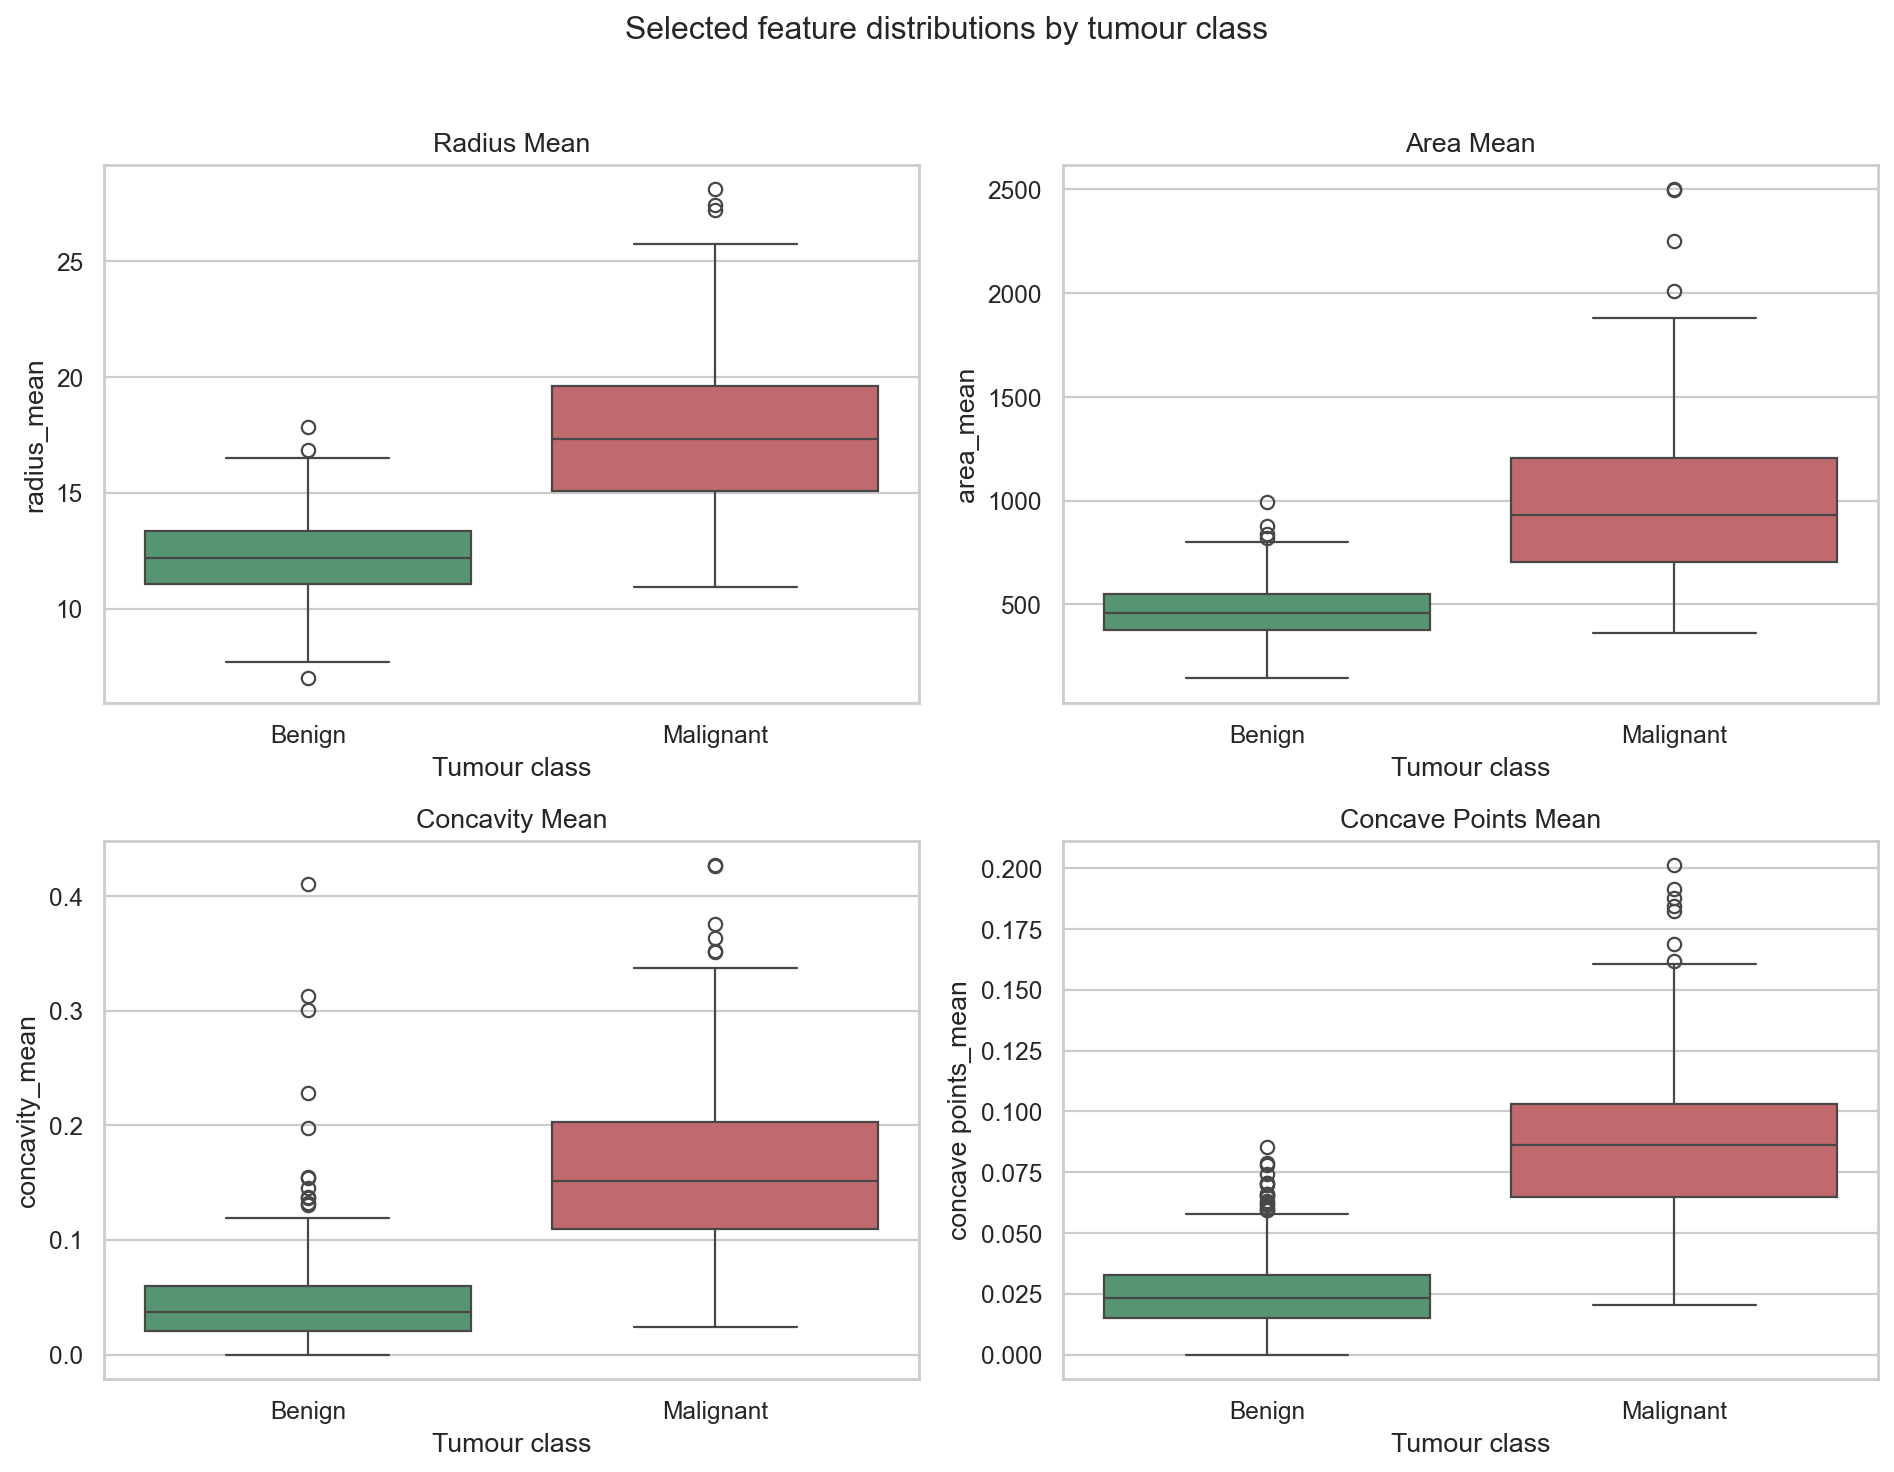
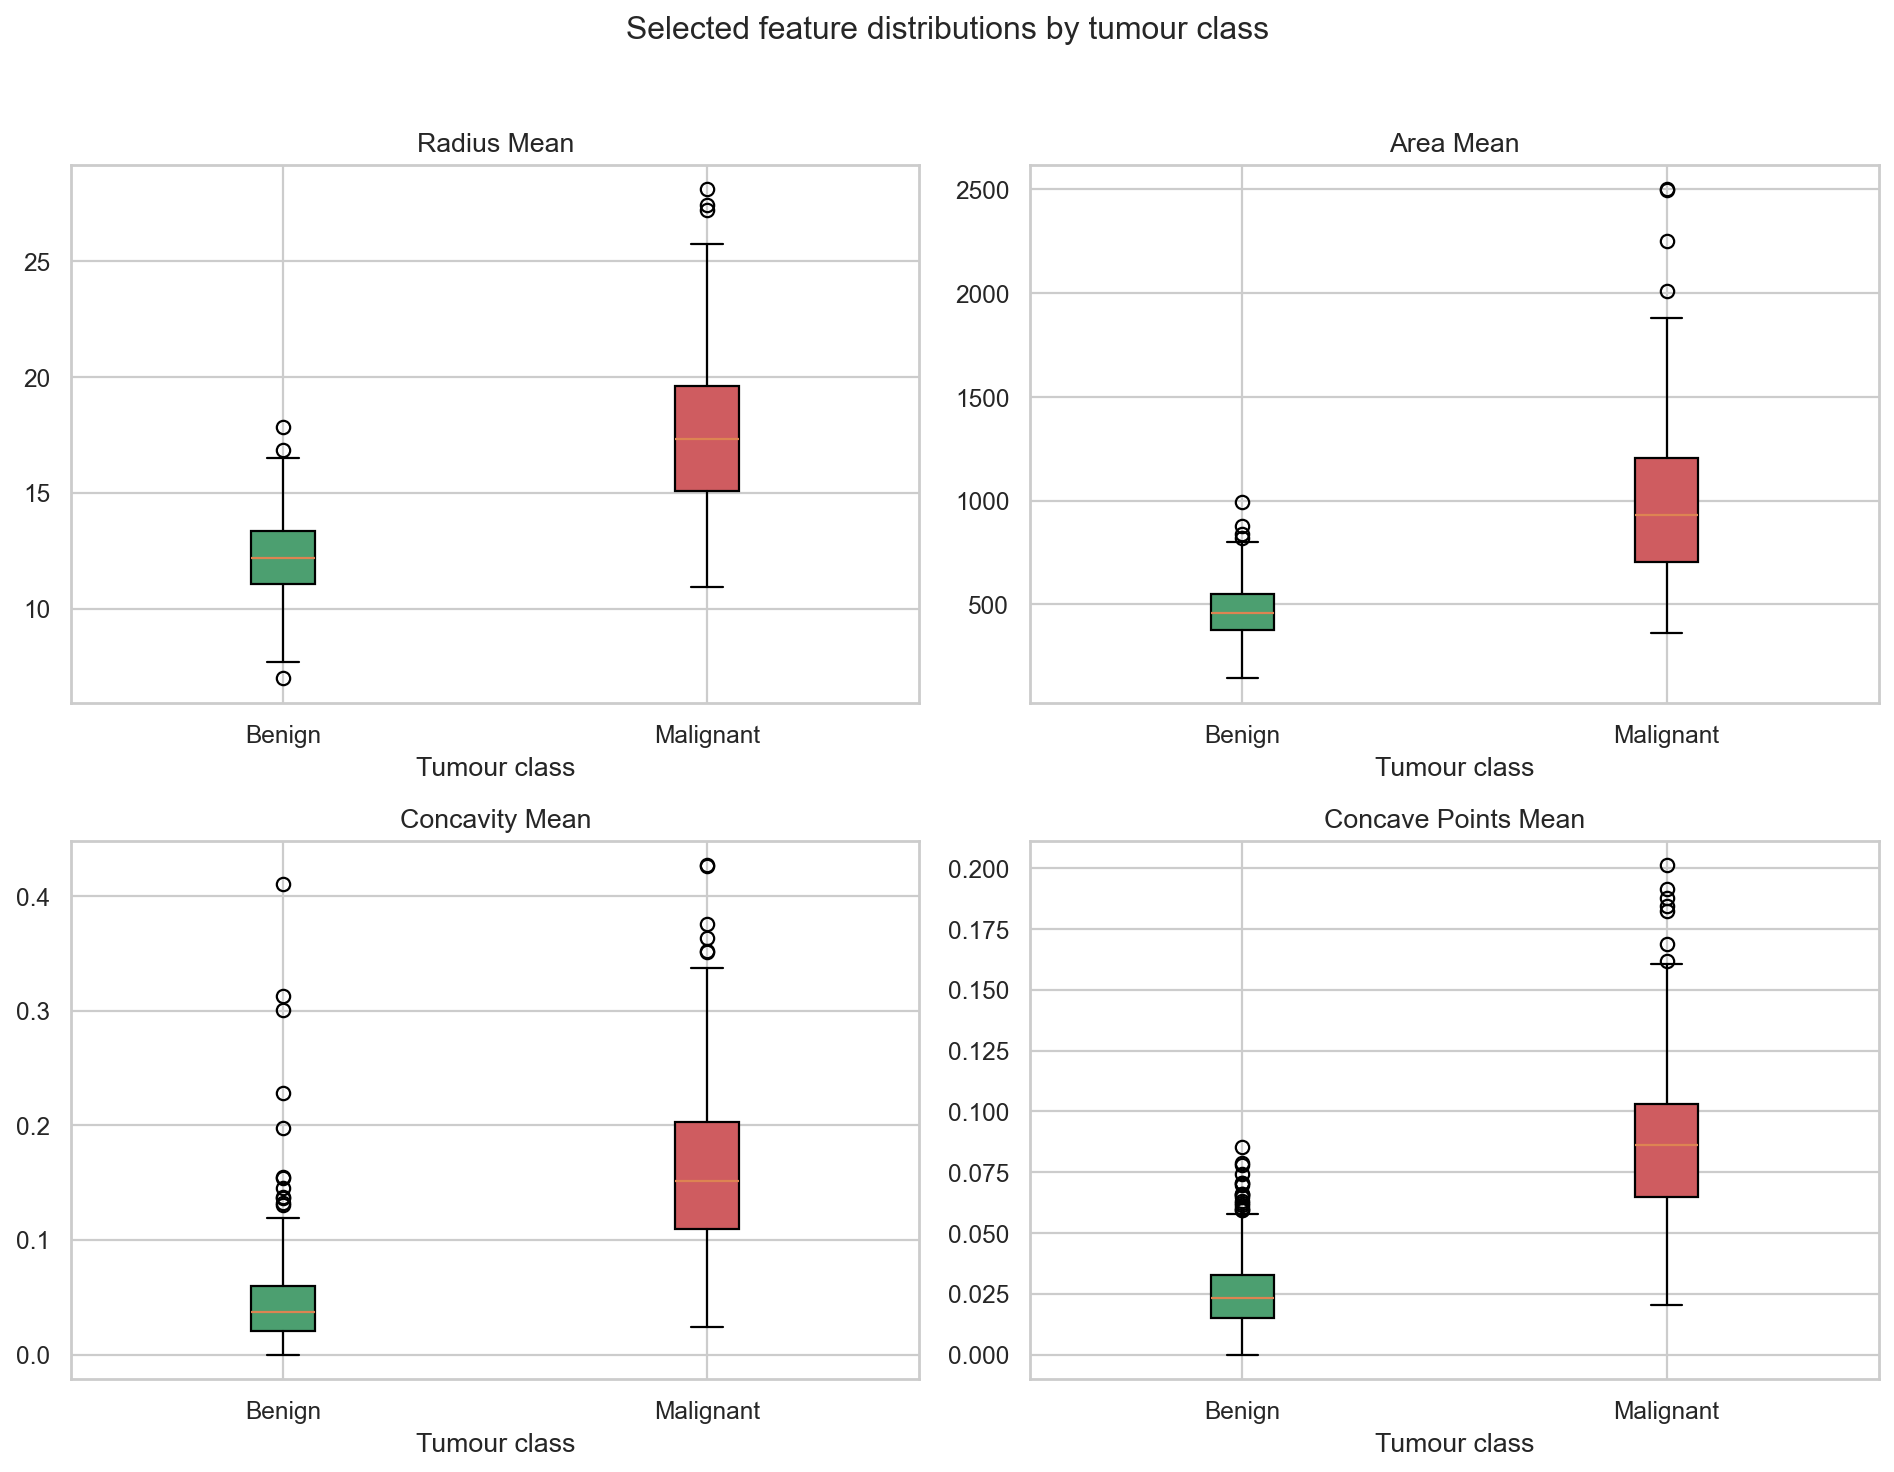
Update README with final model accuracy results and training times; refine metrics in JSON and report files; adjust evaluation function to return probabilities.

diff --git a/src/train.py b/src/train.py
@@ -72,7 +72,7 @@ def evaluate(estimator, X_test, y_test):
     predicted = estimator.predict(X_test)
     probabilities = estimator.predict_proba(X_test)[:, 1]
     tn, fp, fn, tp = confusion_matrix(y_test, predicted, labels=[0, 1]).ravel()
-    return {
+    metrics = {
         "accuracy": float(accuracy_score(y_test, predicted)),
         "precision": float(precision_score(y_test, predicted, zero_division=0)),
         "recall": float(recall_score(y_test, predicted, zero_division=0)),
@@ -80,6 +80,7 @@ def evaluate(estimator, X_test, y_test):
         "roc_auc": float(roc_auc_score(y_test, probabilities)),
         "confusion_matrix": {"tn": int(tn), "fp": int(fp), "fn": int(fn), "tp": int(tp)},
     }
+    return metrics, probabilities
 
 
 def save_eda_figures(X, y):
@@ -151,9 +152,8 @@ def save_eda_figures(X, y):
     return {"pc1_explained_variance": float(pca.explained_variance_ratio_[0]), "pc2_explained_variance": float(pca.explained_variance_ratio_[1]), "components_for_95_percent": components_95}
 
 
-def save_model_figures(experiments, best, X_train, y_train, X_test, y_test):
+def save_model_figures(experiments, best, y_test):
     """Create the four model evaluation figures."""
-    best_estimator = best["estimator"]
     best_metrics = best["metrics"]
 
     fig, ax = plt.subplots(figsize=(6, 5))
@@ -169,9 +169,9 @@ def save_model_figures(experiments, best, X_train, y_train, X_test, y_test):
     for name in [spec[0] for spec in MODEL_SPECS]:
         choices = [item for item in experiments if item["model"] == name]
         chosen = max(choices, key=lambda item: item["cv_f1"])
-        probs = chosen["estimator"].predict_proba(X_test)[:, 1]
+        probs = chosen["test_probabilities"]
         fpr, tpr, _ = roc_curve(y_test, probs)
-        auc = roc_auc_score(y_test, probs)
+        auc = chosen["metrics"]["roc_auc"]
         ax.plot(fpr, tpr, label=f"{name} (K={chosen['k']}, AUC={auc:.3f})")
     ax.plot([0, 1], [0, 1], "k--", linewidth=1, label="Chance")
     ax.set(title="ROC curves for the CV-best configuration of each model", xlabel="False positive rate", ylabel="True positive rate", xlim=(0, 1), ylim=(0, 1.02))
@@ -288,7 +288,7 @@ def main():
             search.fit(X_train, y_train)
             training_time = time.perf_counter() - started
             # This is the only held-out test evaluation for this tuned run.
-            heldout = evaluate(search.best_estimator_, X_test, y_test)
+            heldout, test_probabilities = evaluate(search.best_estimator_, X_test, y_test)
             experiments.append(
                 {
                     "model": model_name,
@@ -297,6 +297,7 @@ def main():
                     "cv_f1": float(search.best_score_),
                     "training_time_seconds": float(training_time),
                     "metrics": heldout,
+                    "test_probabilities": test_probabilities.tolist(),
                     "estimator": search.best_estimator_,
                 }
             )
@@ -308,9 +309,12 @@ def main():
     dump(best["estimator"], MODELS_DIR / "best_model.joblib")
     (MODELS_DIR / "feature_names.json").write_text(json.dumps(feature_names, indent=2), encoding="utf-8")
 
-    save_model_figures(experiments, best, X_train, y_train, X_test, y_test)
+    save_model_figures(experiments, best, y_test)
 
-    json_experiments = [{key: value for key, value in item.items() if key != "estimator"} for item in experiments]
+    json_experiments = [
+        {key: value for key, value in item.items() if key not in {"estimator", "test_probabilities"}}
+        for item in experiments
+    ]
     metrics = {
         "dataset": "Wisconsin Diagnostic Breast Cancer (scikit-learn)",
         "random_state": RANDOM_STATE,
@@ -320,7 +324,9 @@ def main():
         "pca": pca_summary,
         "selection_rule": "Highest held-out test recall, then highest held-out test F1.",
         "experiments": json_experiments,
-        "best_model": {key: value for key, value in best.items() if key != "estimator"},
+        "best_model": {
+            key: value for key, value in best.items() if key not in {"estimator", "test_probabilities"}
+        },
     }
     (RESULTS_DIR / "metrics.json").write_text(json.dumps(metrics, indent=2), encoding="utf-8")
     write_report(metrics, pca_summary, feature_names)

diff --git a/results/report_numbers.md b/results/report_numbers.md
@@ -23,29 +23,29 @@ All test metrics below are measured on the same stratified 20% holdout. Malignan
 
 | Model | Accuracy | Precision | Recall | F1 | ROC-AUC | Training time (s) |
 |---|---:|---:|---:|---:|---:|---:|
-| Logistic Regression | 0.9649 | 0.9750 | 0.9286 | 0.9512 | 0.9960 | 0.235 |
-| K-Nearest Neighbors | 0.9386 | 0.9730 | 0.8571 | 0.9114 | 0.9825 | 1.693 |
-| Decision Tree | 0.9474 | 0.9500 | 0.9048 | 0.9268 | 0.9463 | 0.509 |
-| Gaussian Naive Bayes | 0.9211 | 0.9231 | 0.8571 | 0.8889 | 0.9891 | 0.067 |
-| Random Forest | 0.9737 | 1.0000 | 0.9286 | 0.9630 | 0.9950 | 9.862 |
-| Support Vector Machine | 0.9737 | 1.0000 | 0.9286 | 0.9630 | 0.9927 | 1.297 |
+| Logistic Regression | 0.9649 | 0.9750 | 0.9286 | 0.9512 | 0.9960 | 0.198 |
+| K-Nearest Neighbors | 0.9386 | 0.9730 | 0.8571 | 0.9114 | 0.9825 | 1.304 |
+| Decision Tree | 0.9474 | 0.9500 | 0.9048 | 0.9268 | 0.9463 | 0.500 |
+| Gaussian Naive Bayes | 0.9211 | 0.9231 | 0.8571 | 0.8889 | 0.9891 | 0.068 |
+| Random Forest | 0.9737 | 1.0000 | 0.9286 | 0.9630 | 0.9950 | 9.640 |
+| Support Vector Machine | 0.9737 | 1.0000 | 0.9286 | 0.9630 | 0.9927 | 1.338 |
 
 ## Test metrics: 17 features (report Table 6.4)
 
 | Model | Accuracy | Precision | Recall | F1 | ROC-AUC | Training time (s) |
 |---|---:|---:|---:|---:|---:|---:|
-| Logistic Regression | 0.9737 | 0.9756 | 0.9524 | 0.9639 | 0.9980 | 0.156 |
-| K-Nearest Neighbors | 0.9737 | 0.9756 | 0.9524 | 0.9639 | 0.9979 | 0.990 |
-| Decision Tree | 0.9386 | 0.9487 | 0.8810 | 0.9136 | 0.9216 | 0.377 |
-| Gaussian Naive Bayes | 0.9386 | 0.9730 | 0.8571 | 0.9114 | 0.9931 | 0.067 |
-| Random Forest | 0.9737 | 1.0000 | 0.9286 | 0.9630 | 0.9931 | 9.165 |
-| Support Vector Machine | 0.9825 | 1.0000 | 0.9524 | 0.9756 | 0.9970 | 1.462 |
+| Logistic Regression | 0.9737 | 0.9756 | 0.9524 | 0.9639 | 0.9980 | 0.155 |
+| K-Nearest Neighbors | 0.9737 | 0.9756 | 0.9524 | 0.9639 | 0.9979 | 0.891 |
+| Decision Tree | 0.9386 | 0.9487 | 0.8810 | 0.9136 | 0.9216 | 0.398 |
+| Gaussian Naive Bayes | 0.9386 | 0.9730 | 0.8571 | 0.9114 | 0.9931 | 0.065 |
+| Random Forest | 0.9737 | 1.0000 | 0.9286 | 0.9630 | 0.9931 | 9.185 |
+| Support Vector Machine | 0.9825 | 1.0000 | 0.9524 | 0.9756 | 0.9970 | 1.468 |
 
 ## Champion details
 
 - Champion: **Support Vector Machine** with K=17 features.
 - Confusion matrix counts: TP=40, FN=2, FP=0, TN=72.
-- Champion model training time for K=30: 1.297 seconds; for K=17: 1.462 seconds.
+- Champion model training time for K=30: 1.338 seconds; for K=17: 1.468 seconds.
 - PCA components needed for 95% variance: 10.
 - Model input has 30 measurements; SelectKBest applies the selected K inside the saved pipeline.
 

diff --git a/README.md b/README.md
@@ -38,6 +38,21 @@ Models: Logistic Regression, KNN, Decision Tree, Naive Bayes, Random Forest, SVM
 Each is run with all 30 features and with the top 17 features.
 Metrics: accuracy, precision, recall, F1, ROC-AUC, confusion matrix.
 
+### Final held-out accuracy
+
+Results below come from the fixed stratified 80/20 split (`random_state=42`). The champion is selected by test recall first, then F1; it is the SVM with 17 selected features.
+
+| Model | Accuracy (30 features) | Accuracy (17 features) |
+|---|---:|---:|
+| Logistic Regression | 0.9649 | 0.9737 |
+| K-Nearest Neighbors | 0.9386 | 0.9737 |
+| Decision Tree | 0.9474 | 0.9386 |
+| Gaussian Naive Bayes | 0.9211 | 0.9386 |
+| Random Forest | 0.9737 | 0.9737 |
+| Support Vector Machine | 0.9737 | **0.9825** |
+
+The winning SVM achieved test recall **0.9524**. Full metrics, selected parameters and timings are generated in `results/report_numbers.md`.
+
 ## Project structure
 
 ```
